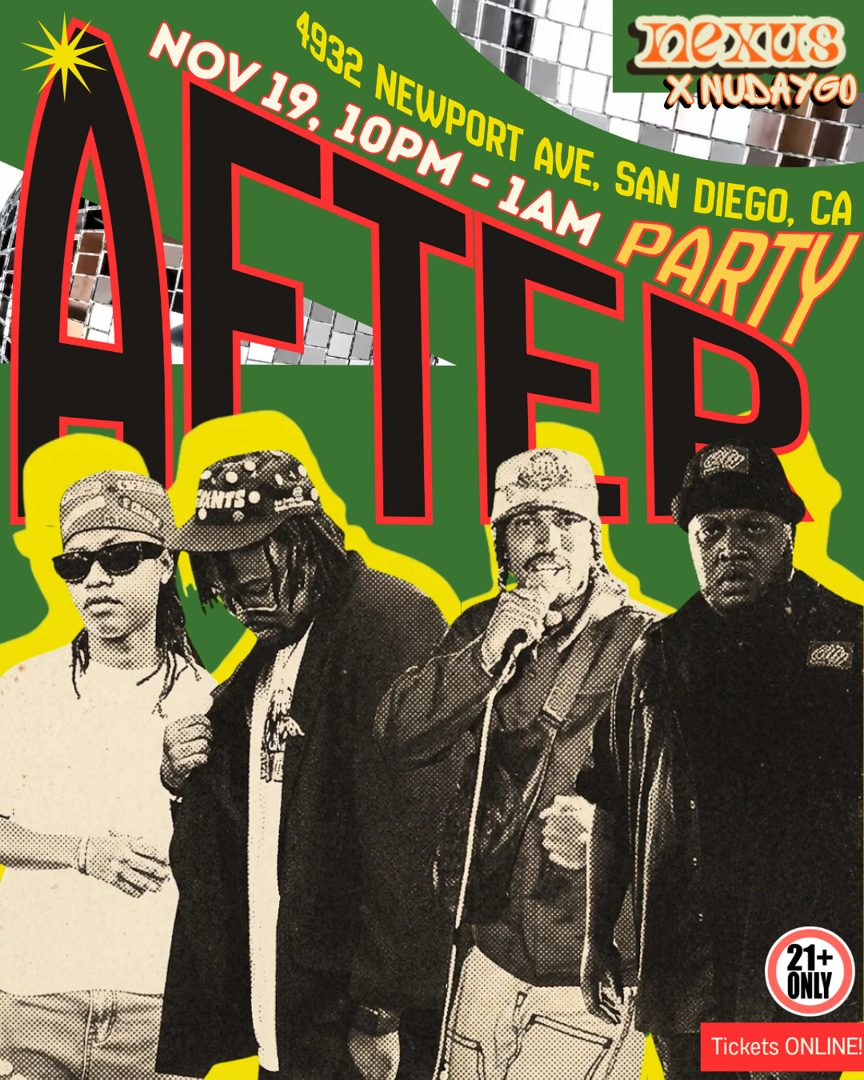
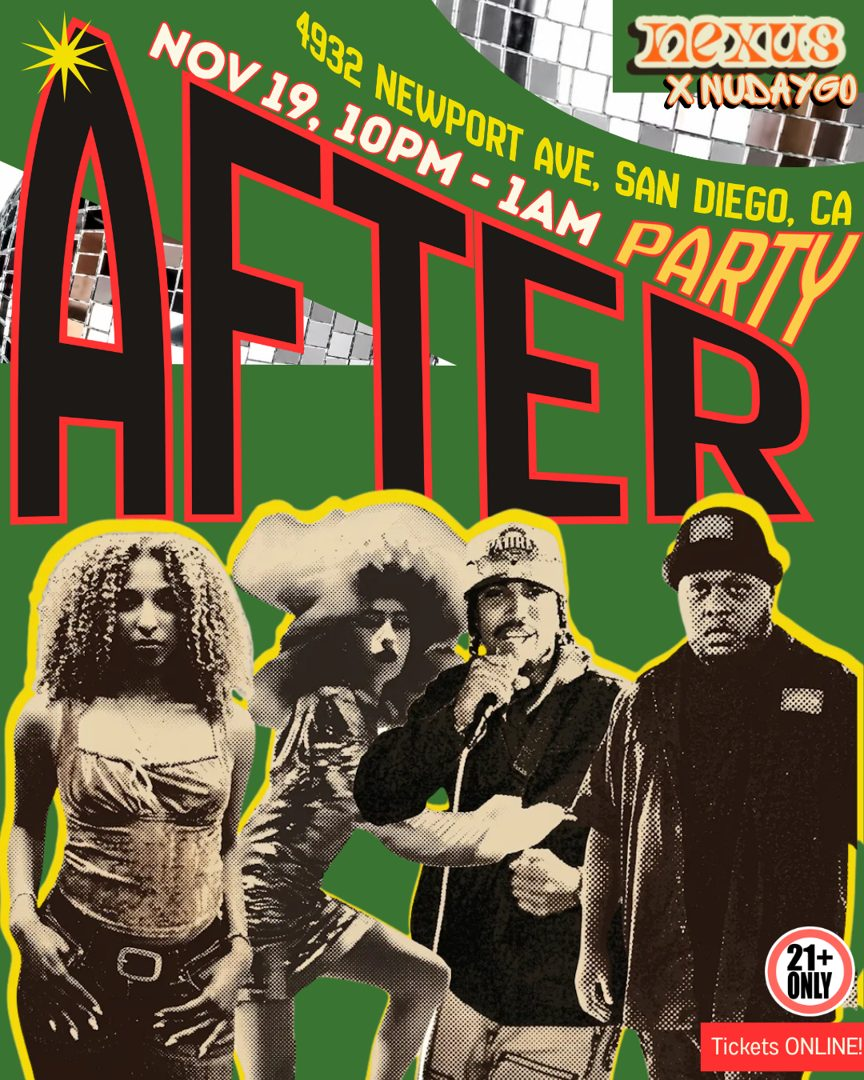
After party: new lineup flyer; Nur 10:30, Rhonda Glez 11:00, Nicole Hernandez 11:30, ThaSpeakerBoxx 12:00
Claude-Session: https://claude.ai/code/session_01EqMmcSfgt7Tgo6Kg6ahk3b

diff --git a/index.html b/index.html
@@ -2247,19 +2247,19 @@ body.has-feature #feat-pills{display:flex;}
           <h2 class="bb-title"><span>After</span><span class="bb-amp">Party</span></h2>
           <div class="bb-sub">Bass <span>&amp;</span> Bars</div>
           <div class="bb-when">Thursday, Nov 19 · 10 PM – 1 AM<small>Uppercuts · 4932 Newport Ave, Ocean Beach, San Diego</small></div>
-          <div class="bb-mini"><b>10:00</b> Doors &nbsp;·&nbsp; <b>10:30</b> Mystery Artist &nbsp;·&nbsp; <b>11:00</b> Nur &nbsp;·&nbsp; <b>11:30</b> Mystery Artist &nbsp;·&nbsp; <b>12:00</b> ThaSpeakerBoxx</div>
+          <div class="bb-mini"><b>10:00</b> Doors &nbsp;·&nbsp; <b>10:30</b> Nur &nbsp;·&nbsp; <b>11:00</b> Rhonda Glez &nbsp;·&nbsp; <b>11:30</b> Nicole Hernandez &nbsp;·&nbsp; <b>12:00</b> ThaSpeakerBoxx</div>
         </div>
         <figure class="bb-flyer" style="margin:0;">
-          <img src="images/bass-and-bars/flyer-lineup.webp?v=2" width="1080" height="1350" alt="Bass and Bars After Party flyer: Nur, ThaSpeakerBoxx and two mystery artists. November 19, 10 PM to 1 AM, 4932 Newport Ave, San Diego." loading="lazy">
+          <img src="images/bass-and-bars/flyer-lineup.webp?v=3" width="1080" height="1350" alt="Bass and Bars After Party flyer: Nicole Hernandez, Rhonda Glez, Nur and ThaSpeakerBoxx. November 19, 10 PM to 1 AM, 4932 Newport Ave, San Diego." loading="lazy">
         </figure>
       </section>
 
       <div class="bb-wrap">
         <div class="bb-tix" id="bb-tickets">
           <div class="bb-card bb-card--hot">
-            <div class="bb-faces" aria-label="Live sets from Nur, ThaSpeakerBoxx and two mystery artists">
-              <i class="bb-face-q" aria-hidden="true">?</i><img src="images/bass-and-bars/nur.webp?v=2" alt=""><i class="bb-face-q" aria-hidden="true">?</i><img src="images/bass-and-bars/thaspeakerboxx.webp?v=3" alt="">
-              <span><b>4 live sets</b> · Nur, ThaSpeakerBoxx + 2 mystery artists</span>
+            <div class="bb-faces" aria-label="Live sets from Nur, Rhonda Glez, Nicole Hernandez and ThaSpeakerBoxx">
+              <img src="images/bass-and-bars/nur.webp?v=2" alt=""><img src="images/bass-and-bars/rhonda-glez.webp" alt=""><img src="images/bass-and-bars/nicole-hernandez.webp" alt=""><img src="images/bass-and-bars/thaspeakerboxx.webp?v=3" alt="">
+              <span><b>4 live sets</b> · Nur, Rhonda Glez, Nicole Hernandez, ThaSpeakerBoxx</span>
             </div>
             <div class="bb-k" id="bb-tier">Tickets · Early Bird</div>
             <div class="bb-price" id="bb-price">$15</div>
@@ -2291,9 +2291,9 @@ body.has-feature #feat-pills{display:flex;}
         <h3 class="bb-h">The Lineup</h3>
         <p class="bb-lede">Four sets, one room. MCs and DJs from the San Diego scene take Uppercuts. Doors at 10 PM, first set at 10:30 PM.</p>
         <div class="bb-lineup">
-          <div class="bb-act bb-act--mystery" aria-label="Mystery artist, set at 10:30 PM. Revealed soon"><div class="bb-mys-art" aria-hidden="true"><span>?</span></div><div><b>Mystery Artist</b><span>Set at 10:30 PM</span><em>Revealed soon 👀</em></div></div>
-          <a class="bb-act bb-act--link" href="https://linktr.ee/nurmusicofficial" target="_blank" rel="noopener" aria-label="Nur, set at 11:00 PM. Visit Linktree"><img src="images/bass-and-bars/nur.webp?v=2" alt="Nur" loading="lazy"><div><b>Nur</b><span>Set at 11:00 PM</span><em>Visit Linktree →</em></div></a>
-          <div class="bb-act bb-act--mystery" aria-label="Mystery artist, set at 11:30 PM. Revealed soon"><div class="bb-mys-art" aria-hidden="true"><span>?</span></div><div><b>Mystery Artist</b><span>Set at 11:30 PM</span><em>Revealed soon 👀</em></div></div>
+          <a class="bb-act bb-act--link" href="https://linktr.ee/nurmusicofficial" target="_blank" rel="noopener" aria-label="Nur, set at 10:30 PM. Visit Linktree"><img src="images/bass-and-bars/nur.webp?v=2" alt="Nur" loading="lazy"><div><b>Nur</b><span>Set at 10:30 PM</span><em>Visit Linktree →</em></div></a>
+          <a class="bb-act bb-act--link" href="https://www.instagram.com/rhondaglez/" target="_blank" rel="noopener" aria-label="Rhonda Glez, set at 11:00 PM. Instagram"><img src="images/bass-and-bars/rhonda-glez.webp" alt="Rhonda Glez" loading="lazy"><div><b>Rhonda Glez</b><span>Set at 11:00 PM</span><em>Instagram →</em></div></a>
+          <a class="bb-act bb-act--link" href="https://www.instagram.com/n3xus.now/" target="_blank" rel="noopener" aria-label="Nicole Hernandez, set at 11:30 PM"><img src="images/bass-and-bars/nicole-hernandez.webp" alt="Nicole Hernandez" loading="lazy"><div><b>Nicole Hernandez</b><span>Set at 11:30 PM</span><em>New to the lineup →</em></div></a>
           <a class="bb-act bb-act--link" href="https://www.thaspeakerboxx.com/" target="_blank" rel="noopener" aria-label="ThaSpeakerBoxx, set at 12:00 AM. Visit website"><img src="images/bass-and-bars/thaspeakerboxx.webp?v=3" alt="ThaSpeakerBoxx" loading="lazy"><div><b>ThaSpeakerBoxx</b><span>Set at 12:00 AM</span><em>Visit website →</em></div></a>
         </div>
 
